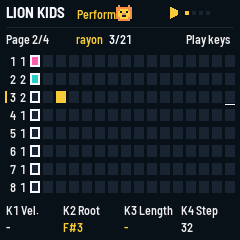
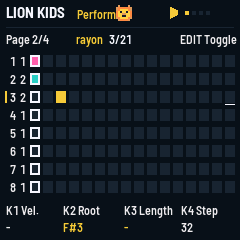
Toggle selected notes with EDIT in Performance

Changed region(s): [[0.7292, 0.1458, 0.9917, 0.2042]]

diff --git a/app/web/emu/page.html b/app/web/emu/page.html
@@ -47,9 +47,9 @@ LION KIDS starten
     <p><b>SEQ</b> öffnet zuerst Performance. Erneutes Drücken wechselt zwischen Performance und Steps.
       Beim Zurückkehren öffnet sich die zuletzt verwendete Ansicht. K4 wählt den Step der gewählten Spur
       und blättert bei längeren Spuren automatisch.</p>
-    <p>In <b>Steps</b> fügt <b>EDIT</b> am Cursor eine Note hinzu oder entfernt sie. Die weißen Tasten
-      schalten Steps direkt, die schwarzen wählen beim Drum-Kit einen Klang. In <b>Performance</b> spielen
-      die Tasten live. In beiden Ansichten regelt K1 die Anschlagstärke, K2 den Grundton und K3 die
+    <p>In <b>Steps</b> und <b>Performance</b> fügt <b>EDIT</b> am Cursor eine Note hinzu oder entfernt sie.
+      In Steps schalten die weißen Tasten Steps direkt, die schwarzen wählen beim Drum-Kit einen Klang.
+      In Performance spielen die Tasten live und wählen dabei den zuletzt gespielten Drum-Klang. In beiden Ansichten regelt K1 die Anschlagstärke, K2 den Grundton und K3 die
       Notenlänge. Die Spurlänge stellst du auf HOME mit K2 ein.</p>
     <p><b>FX</b> schaltet Hall für die gewählte Spur ein oder aus, <b>SEL</b> das Echo. Beide können
       gleichzeitig leuchten. K1 regelt den Effektanteil der Spur, K2 bis K4 verändern den gemeinsamen

diff --git a/app/web/emu/app.js b/app/web/emu/app.js
@@ -20,7 +20,7 @@ function moveStore() {
 // what each control does, on hover and for a screen reader (the Buttons list below the panel says the same)
 const TIP = { FX: "Reverb for this track", SEL: "Delay for this track", ENV: "Envelope for this track",
   LFO: "Modulation graph, signed depth and synced rate",
-  EDIT: "Toggle the selected step in Steps, open songs in GLO, or open Quick FX",
+  EDIT: "Toggle the selected step in Performance or Steps, open songs in GLO, or open Quick FX",
   GLO: "Tempo, metronome, swing and song slots. Hold for five seconds to clear a slot.",
   HOME: "Stage. Hold and turn K1 to undo or redo", SAVE: "Save the loaded song", ARP: "Arpeggiator for this track",
   SEQ: "Open the last sequencer view or alternate between Performance and Steps", PLAY: "Start or stop playback",

diff --git a/app/kids.c b/app/kids.c
@@ -1003,15 +1003,15 @@ static int kids_input(void)
 
     if (ev[EN_PRESET]) kids_category_step(ev[EN_PRESET]);
     if (ev[EN_ALGO]) kids_sound_step(ev[EN_ALGO]);
-    if (kids_mode == KIDS_STEPS && (down & (1u << B_EDIT))) {
-        kids_move_cursor(ev[EN_K4]);
-        kh_begin(&kh_edit, KH_STEP, "Step", sel_trk(), 0);
-        kids_toggle_step(kids_selected_step(sel_trk()) % 16);
-        kh_end(&kh_edit);
-        down &= ~(1u << B_EDIT);
-    } else if (kids_mode == KIDS_STEPS || kids_mode == KIDS_PERFORMANCE) {
+    if (kids_mode == KIDS_STEPS || kids_mode == KIDS_PERFORMANCE) {
         if (ev[EN_K4]) kids_perf_manual = 1;
         kids_move_cursor(ev[EN_K4]);
+        if (down & (1u << B_EDIT)) {
+            kh_begin(&kh_edit, KH_STEP, "Step", sel_trk(), 0);
+            kids_toggle_step(kids_selected_step(sel_trk()) % 16);
+            kh_end(&kh_edit);
+            down &= ~(1u << B_EDIT);
+        }
     }
     kids_effect_buttons(down);
     kids_turn_knobs(ev);
@@ -1039,7 +1039,7 @@ static uint32_t kids_button_lights(void)
         kids_mode == KIDS_STEPS || kids_mode == KIDS_PERFORMANCE ? 1u << B_SEQ : 0;
     if (shape[KD_ENV_ON]) buttons |= 1u << B_ENV;
     if (shape[KD_LFO_ON]) buttons |= 1u << B_LFO;
-    if (kids_mode != KIDS_STEPS && shape[KD_EDIT_ON]) buttons |= 1u << B_EDIT;
+    if (kids_mode != KIDS_STEPS && kids_mode != KIDS_PERFORMANCE && shape[KD_EDIT_ON]) buttons |= 1u << B_EDIT;
     if (kids_fx_on[sel_trk()][0]) buttons |= 1u << B_SEL;
     if (kids_fx_on[sel_trk()][1]) buttons |= 1u << B_FX;
     if (kids_arp_on[sel_trk()] && !is_drum(sel_trk())) buttons |= 1u << B_ARP;
@@ -1635,7 +1635,7 @@ static void kids_draw(void)
                 num_s((uint32_t)kids_page_count(trk), s_cat(num_s((uint32_t)kids_perf_page[trk] + 1, s_cat(page, "Page ")), "/"));
                 kids_text(6, 4, page);
                 kids_preset_label(76, 4, 101, &LFONT_XS, name, ink);
-                kids_text(186, 4, "Play keys");
+                kids_text(180, 4, "EDIT Toggle");
             } else if (b >= 2 && b <= 5) {
                 for (int row = 0; row < 2; row++) {
                     int t = (b - 2) * 2 + row, line = row * 18;

diff --git a/docs/LION_KIDS_MANUAL.md b/docs/LION_KIDS_MANUAL.md
@@ -28,7 +28,7 @@ Turn **SELECT** to pick one of eight tracks, **PRESETS** to choose its category,
 | K2 | Transpose the selected melodic note or chord | Transpose the selected note or chord. On an empty step, set the root for new notes |
 | K3 | Set the selected step's length | Set the selected step's length |
 | Keys | Play live | White keys toggle steps on the visible page. Black keys choose a hit on drum tracks |
-| EDIT | Open Quick FX | Add or remove the note or selected drum hit at the cursor |
+| EDIT | Add or remove the note or last played drum hit at the cursor | Add or remove the note or selected drum hit at the cursor |
 
 K4 moves between pages and wraps at the ends of the current track. For example, turning left from step 1 of a 32-step track selects step 32. Each track has its own cursor. In Performance the rows follow their own loops while playing. Turning K4 lets you inspect the current track independently until you start or stop playback or change views. On a drum step, velocity can be changed for the selected hit. Length applies to the step's group of hits. **Auto** uses the pattern's default note length.
 
@@ -42,7 +42,7 @@ K4 moves between pages and wraps at the ends of the current track. For example, 
 | --- | --- | --- |
 | FX | Reverb | Amount / decay / room size / tone |
 | SEL | Delay | Amount / feedback / beat division / tone |
-| EDIT outside Steps and GLO | Quick FX | Low-pass / drive / bitcrush / chorus |
+| EDIT outside Performance, Steps and GLO | Quick FX | Low-pass / drive / bitcrush / chorus |
 | ENV | Envelope | Attack / hold / sustain / release |
 | LFO | Modulation | Depth / target / rate / waveform |
 | ARP | Arpeggiator | Order / rate / chord / scale |

diff --git a/docs/RELEASE.md b/docs/RELEASE.md
@@ -16,7 +16,7 @@ LION KIDS is an eight-track browser groovebox with live recording, step editing 
 
 LION KIDS is an eight-track groovebox you can play in a desktop browser. It starts with a playable keyboard, eight distinct sounds, colored category icons, and three song slots you can name with pixel art.
 
-- **Performance and Steps** alternate on SEQ and remember the last view. K4 browses steps on a track, and EDIT toggles the selected step in Steps.
+- **Performance and Steps** alternate on SEQ and remember the last view. K4 browses steps on a track, and EDIT toggles the selected step in either view.
 - **Sound controls** stop at either end. Keys and Plucks start with reverb and delay.
 - **Live recording and editing** include overdub, step velocity, root, length and swing, plus session undo and redo.
 - **Song slots** support saving, opening and clearing with confirmation. Song data lives in your browser.
